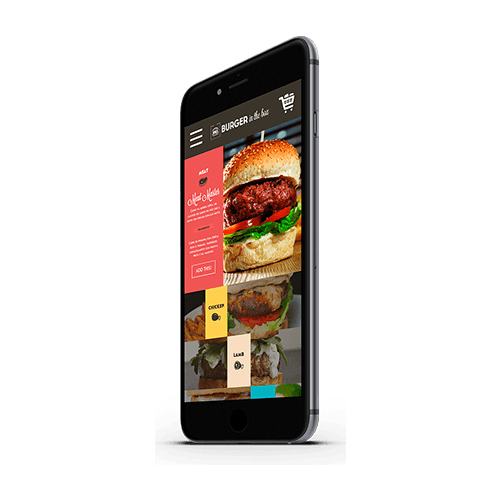
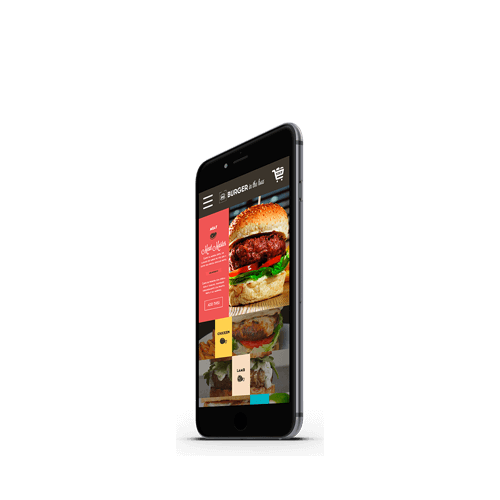
Adds almost cover images

Changed region(s): [[0.33, 0.06, 0.69, 0.9]]

diff --git a/app/assets/almost/index.html b/app/assets/almost/index.html
@@ -46,8 +46,7 @@
           <h2>BeSafe</h2>
           <p class="p2">Android Wear App</p>
         </div>
-        <img src="../images/soy-luna-cover-shadow.png" srcset="../images/soy-luna-cover-shadow@2x.png 2x">
-        <img src="../images/soy-luna-cover.gif" srcset="../images/soy-luna-cover@2x.gif 2x">
+        <img src="../images/besafe-cover.png" srcset="../images/besafe-cover@2x.png 2x">
       </li>
     </a>
     <a href="/vdeo">
@@ -57,7 +56,7 @@
           <h2>Burger In The Box</h2>
           <p class="p2">Branding & Ui</p>
         </div>
-        <img src="../images/vdeo-cover.png" srcset="../images/vdeo-cover@2x 2x.png">
+        <img src="../images/burger-in-the-box-cover.png" srcset="../images/burger-in-the-box-cover@2x 2x.png">
       </li>
     </a>
     <a href="ipanema">
@@ -67,10 +66,9 @@
           <h2>Run Calendar</h2>
           <p class="p2">Running App</p>
         </div>
-        <img src="../images/ipanema-cover.png" srcset="../images/ipanema-cover@2x 2x.png">
+        <img src="../images/run-calendar-cover.png" srcset="../images/run-calendar-cover@2x 2x.png">
       </li>
     </a>
-    
     <li id="menu" class="panel menu">
       <div>
         <ul>

diff --git a/app/sass/pages/_home.sass b/app/sass/pages/_home.sass
@@ -72,12 +72,32 @@ ul.container > a
         background-blend-mode: soft-light
         background-color: $terra
 
+    > .bank-app
+        @include image("images/bank-app-cover-background@2x.png")
+        background-blend-mode: saturation
+        background-color: $bank-app
+
+    > .besafe
+        @include image("images/besafe-cover-background@2x.png")
+        background-blend-mode: soft-light
+        background-color: $besafe
+
+    > .burger-in-the-box
+        @include image("images/burger-in-the-box-cover-background@2x.png")
+        background-blend-mode: soft-light
+        background-color: $burger-in-the-box
+
+    > .run-calendar
+        @include image("images/run-calendar-cover-background@2x.png")
+        background-blend-mode: soft-light
+        background-color: $run-calendar
+
     >li > img
             opacity: 1
             transition: all 0.3s ease
 
     > li > div
-            transform: translateY(-55%)
+            transform: translateY(-60%)
             transition: all 0.3s ease
 
             > h1, h2, h3, p

diff --git a/app/sass/helpers/_variables.sass b/app/sass/helpers/_variables.sass
@@ -29,3 +29,6 @@ $getnet: #3197da
 $kikast: #f55652
 $terra: #f67113
 $bank-app: #00e49f
+$besafe: #09a3e8
+$burger-in-the-box: #201a0d
+$run-calendar: #f2503d

diff --git a/app/sass/main.sass b/app/sass/main.sass
@@ -11,6 +11,5 @@
 @import 'modules/_internal-hero'
 
 @import 'pages/_home'
-@import 'pages/_almost'
 
 @import 'layout/_menu'
